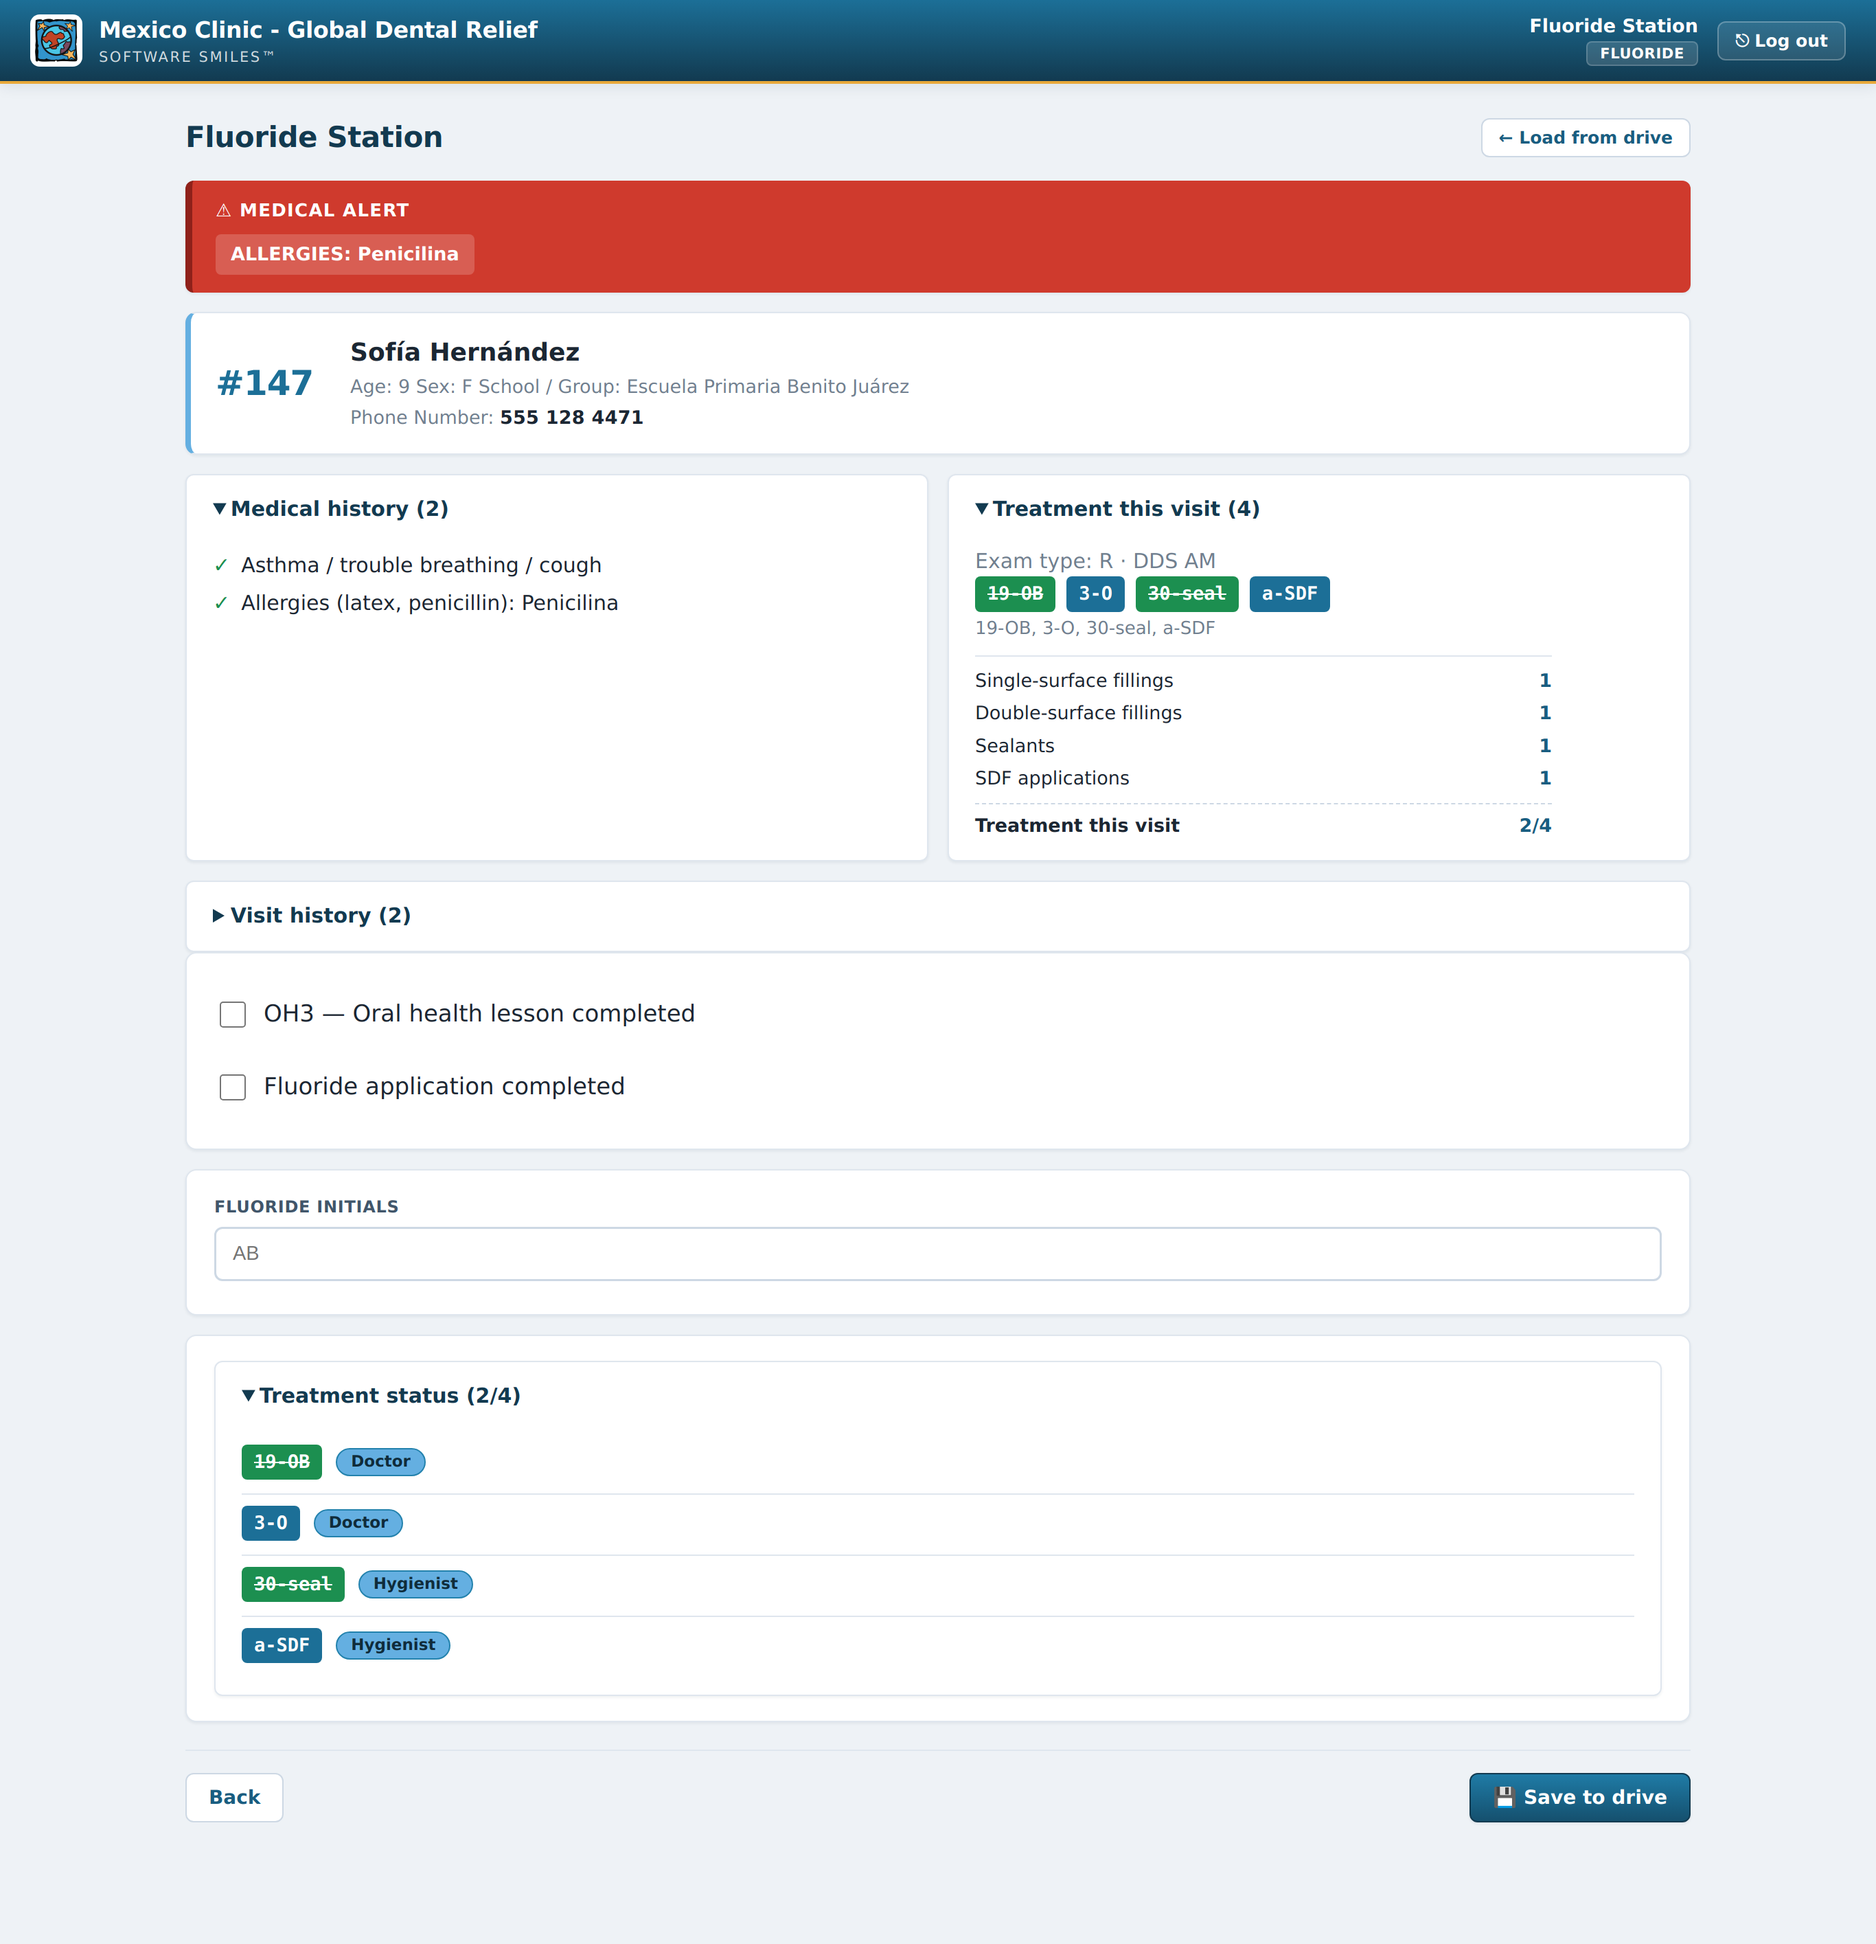
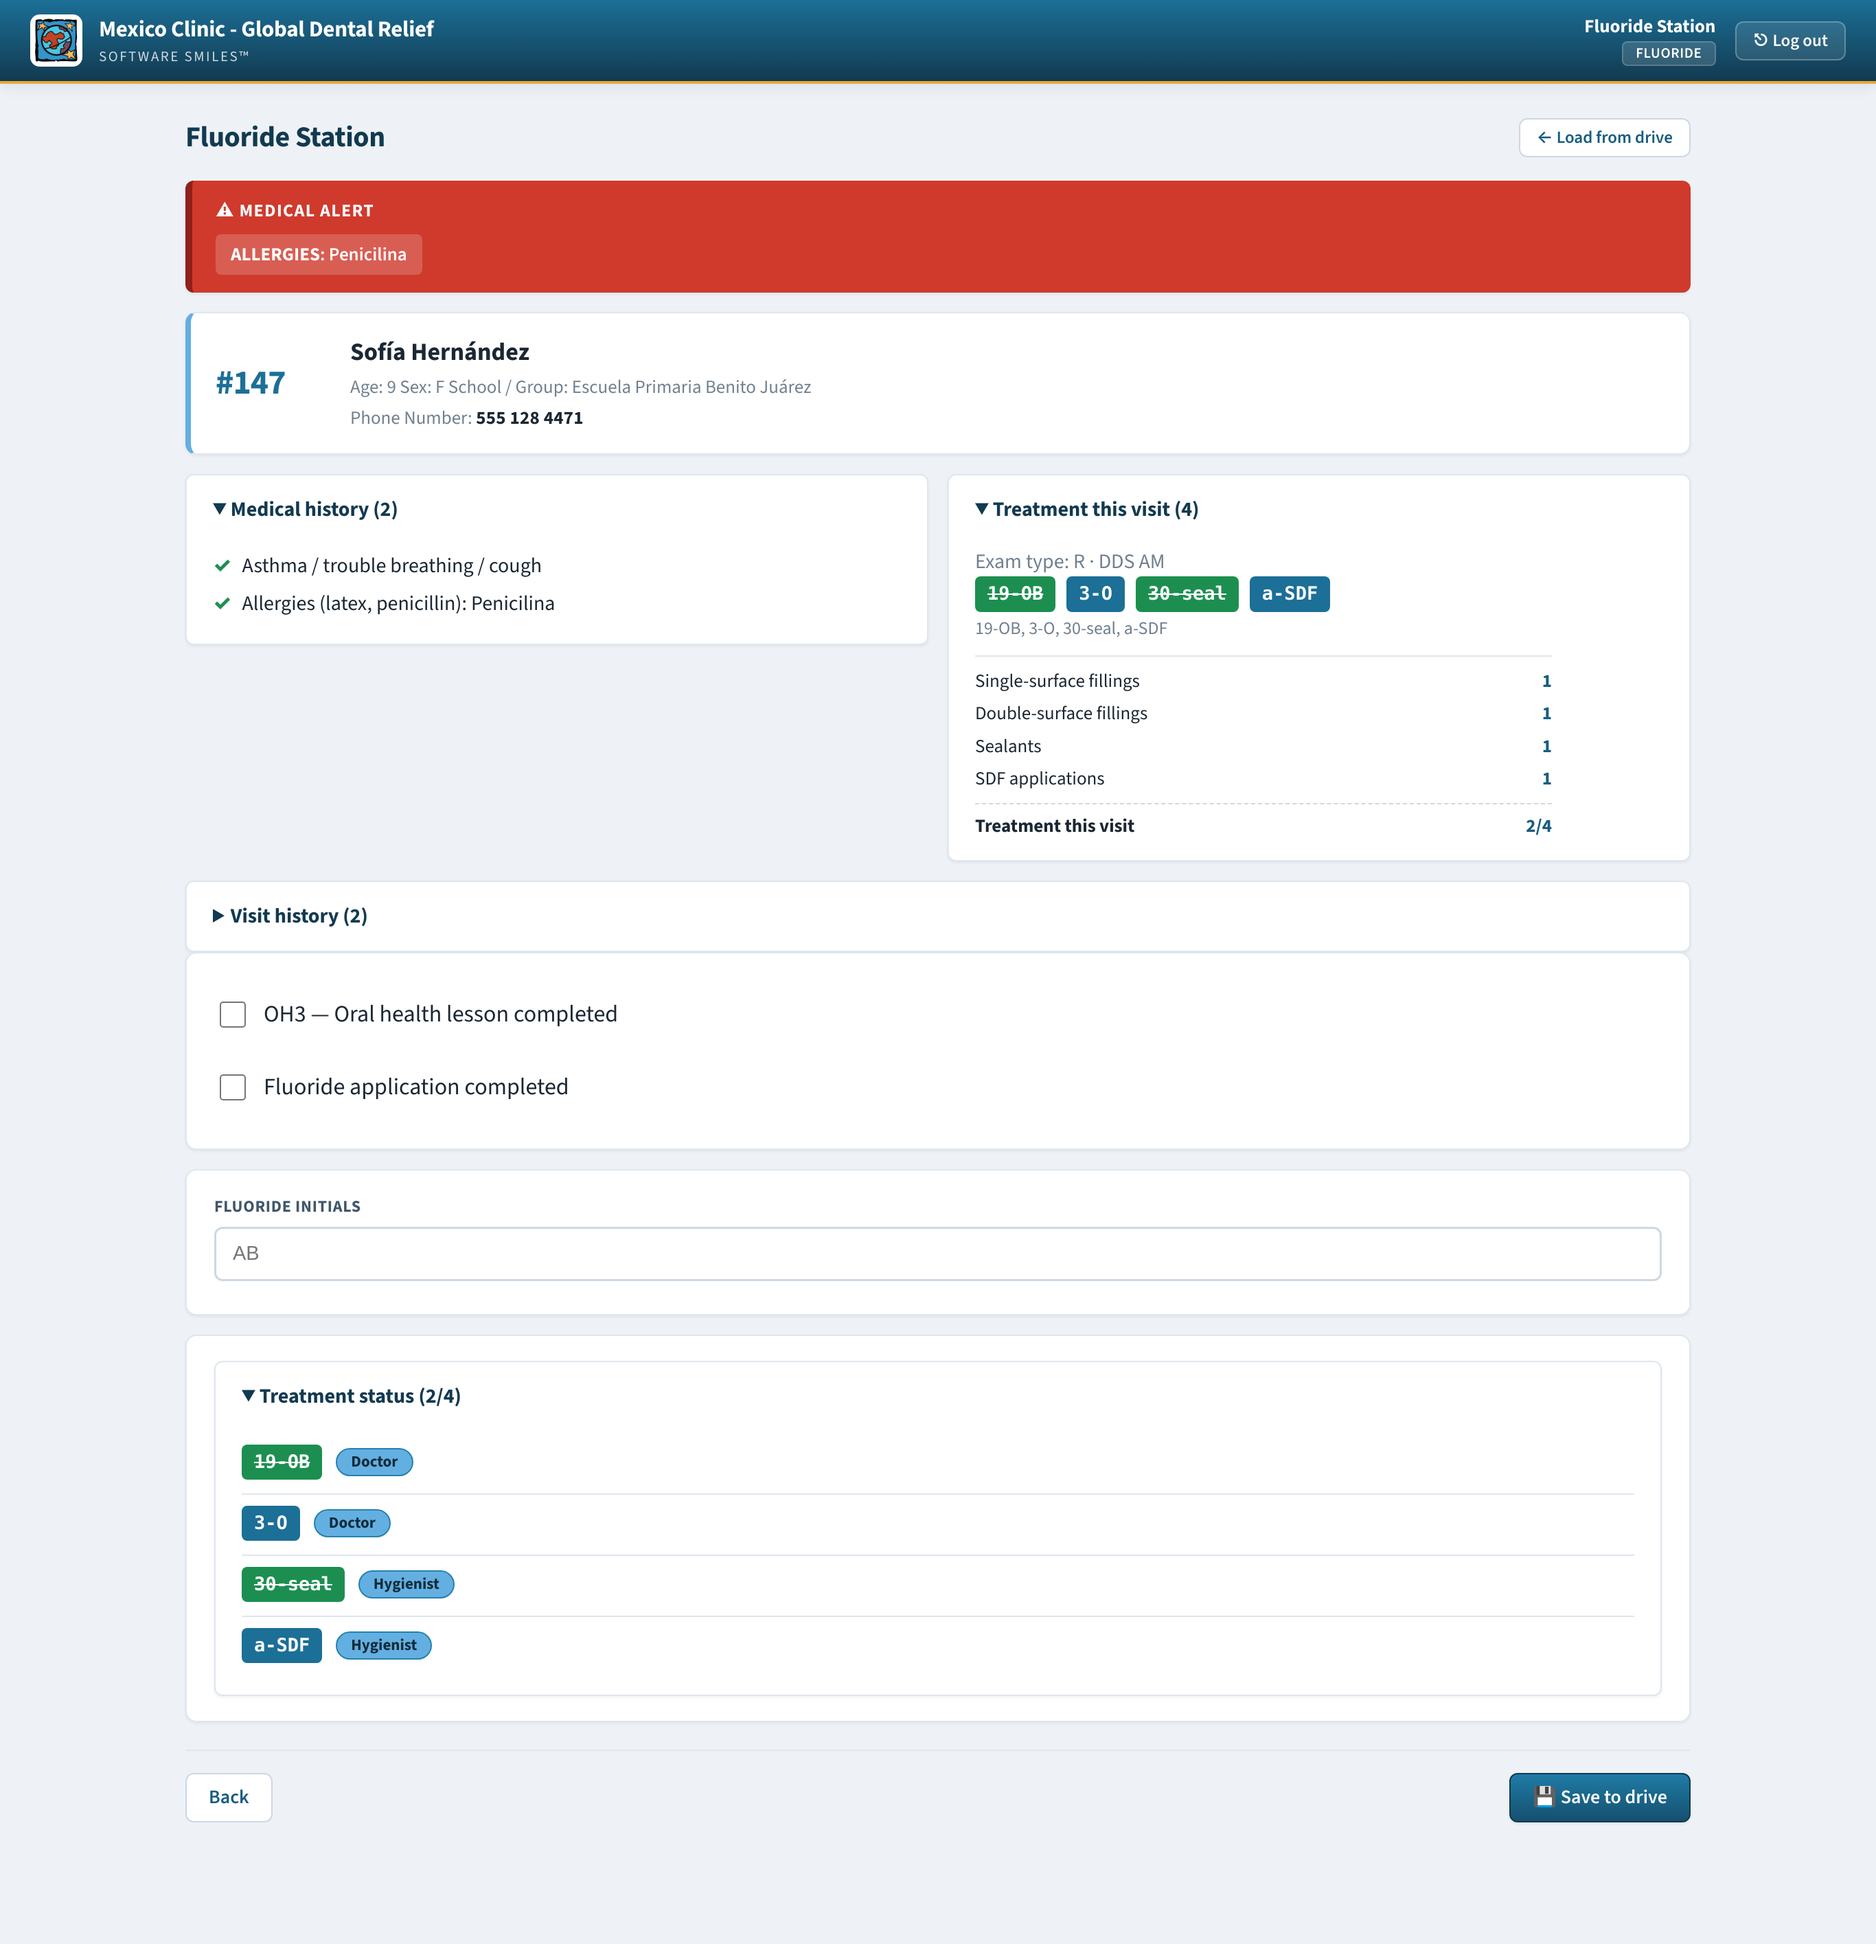
v1.3.6: load the brand font (it has never loaded since v1.1.4)
styles.css declared @font-face src url('fonts/SourceSans3-*.woff2'), which
resolves to src/renderer/fonts/ — a folder that has never existed; the files live
in assets/fonts/. Every face failed with ERR_FILE_NOT_FOUND, so all installs have
rendered in the fallback stack (Segoe UI on the Windows laptops) rather than the
brand's Source Sans 3 (the Myriad Pro substitute adopted in v1.1.4). The path now
points at ../../assets/fonts/, the same relative form the header icon already uses,
which resolves both unpacked and inside the packaged asar.

Why nothing caught it: e2e 6a asserted getComputedStyle(body).fontFamily contains
"Source Sans 3" — true whether or not the file loads, so it could never fail. The
launch probe now force-loads 400/600/700 via document.fonts.load and reports each
FontFace status; new check 6d requires all three "loaded". Verified both ways in the
running app: old path -> ["400:error","600:error","700:error"], fixed -> all loaded.

Screenshots in docs/screenshots were re-captured; the previous set (and the copies
already sent out) show the fallback font, not the brand font.

Full regression: smoke 16, flow 198, feature 54, returning 63, v131 121, v132 40,
v133 59, e2e 36 (real app).

Claude-Session: https://claude.ai/code/session_01Esz4k8zi4oPMq6BEga5c57

diff --git a/src/renderer/styles.css b/src/renderer/styles.css
@@ -4,9 +4,9 @@
    (sky blue + purple + orange + gold), Myriad-substitute UI type (Source Sans 3),
    Georgia for reports. Crisp edges, defined borders, large touch targets.
    ========================================================================== */
-@font-face{font-family:'Source Sans 3';font-style:normal;font-weight:400;font-display:swap;src:url('fonts/SourceSans3-400.woff2') format('woff2');}
-@font-face{font-family:'Source Sans 3';font-style:normal;font-weight:600;font-display:swap;src:url('fonts/SourceSans3-600.woff2') format('woff2');}
-@font-face{font-family:'Source Sans 3';font-style:normal;font-weight:700;font-display:swap;src:url('fonts/SourceSans3-700.woff2') format('woff2');}
+@font-face{font-family:'Source Sans 3';font-style:normal;font-weight:400;font-display:swap;src:url('../../assets/fonts/SourceSans3-400.woff2') format('woff2');}
+@font-face{font-family:'Source Sans 3';font-style:normal;font-weight:600;font-display:swap;src:url('../../assets/fonts/SourceSans3-600.woff2') format('woff2');}
+@font-face{font-family:'Source Sans 3';font-style:normal;font-weight:700;font-display:swap;src:url('../../assets/fonts/SourceSans3-700.woff2') format('woff2');}
 :root{
   /* GDR brand blue ramp (Dental blue #64AFE1 / Light blue #83D4F1) */
   --navy:#0f2c3b; --blue-900:#123a50; --blue-800:#185d80; --blue-700:#1c6f97;

diff --git a/src/main/main.js b/src/main/main.js
@@ -52,6 +52,15 @@ function createWindow() {
       setTimeout(async () => {
         try {
           const bodyFont = await mainWindow.webContents.executeJavaScript("getComputedStyle(document.body).fontFamily");
+          // The computed font-family names Source Sans 3 whether or not the file
+          // loads, so it cannot catch a broken @font-face path. Force each brand
+          // weight to load and report each face's real status instead.
+          const brandFaces = await mainWindow.webContents.executeJavaScript(`(async function(){
+            for (const wgt of ['400','600','700']) { try { await document.fonts.load(wgt + ' 16px "Source Sans 3"'); } catch (_) {} }
+            return [...document.fonts].filter(function(f){ return /Source Sans 3/.test(f.family); })
+              .map(function(f){ return f.weight + ':' + f.status; }).sort();
+          })()`);
+          console.log('[smoke] brand font faces:', JSON.stringify(brandFaces));
           const lockup = await mainWindow.webContents.executeJavaScript("(document.querySelector('.login-lockup')||{}).naturalWidth||0");
           console.log('[smoke] body font:', JSON.stringify(bodyFont));
           console.log('[smoke] login lockup img natural width:', lockup);

diff --git a/scripts/e2e-test.js b/scripts/e2e-test.js
@@ -201,6 +201,12 @@ seed([], 'fresh check-in');
   const fontLine = find(lines, /body font/);
   const lockupLine = find(lines, /login lockup img natural width/);
   record('6a', 'v1.1.4 body font includes "Source Sans 3"', /Source Sans 3/.test(fontLine), fontLine.replace('[smoke] ', '').trim());
+  // 6a only proves the CSS NAMES the font. 6d proves the files actually load —
+  // a wrong @font-face path left every install on a fallback font until v1.3.6.
+  let faces = [];
+  try { faces = JSON.parse(find(lines, /brand font faces:/).replace(/^.*faces:\s*/, '')); } catch (_) { faces = []; }
+  record('6d', 'v1.3.6 brand font files actually load (400/600/700 all "loaded")',
+    faces.length === 3 && faces.every((f) => /:loaded$/.test(f)), `faces=${JSON.stringify(faces)}`);
   record('6b', 'v1.1.4 login lockup image naturalWidth > 0', num(lockupLine) > 0, lockupLine.replace('[smoke] ', '').trim());
   // header brand-logo presence is checked separately below (admin launch shows header)
   // v1.3.2 item 1 — the dentition-layout dropdown was REMOVED. The chart always

diff --git a/CHANGELOG.md b/CHANGELOG.md
@@ -4,6 +4,17 @@ All notable changes to GDR Clinic are listed here. The matching version's notes
 are published automatically to each GitHub Release (and read by the in-app
 auto-updater).
 
+## v1.3.6 — 2026-11-07
+- **Fixed: the brand font now actually loads.** Since v1.1.4 the stylesheet pointed
+  at a font folder that doesn't exist, so every install has been showing a fallback
+  system font (Segoe UI on Windows) instead of the brand's Source Sans 3. The app now
+  renders in the intended typeface on every screen.
+- Quality: the old test only checked that the stylesheet *named* the font, which
+  passes whether or not the file loads. New real-app check 6d forces each weight to
+  load and requires all three to report "loaded" (it fails on the old path: all
+  three "error"). e2e 36/36.
+- Product screenshots in docs/screenshots re-captured in the correct font.
+
 ## v1.3.5 — 2026-11-07
 - **Fixed: collapsed side panels no longer stretch into a tall empty card.** On the
   dentist, hygienist and fluoride screens, a collapsed panel (e.g. Medical history)
